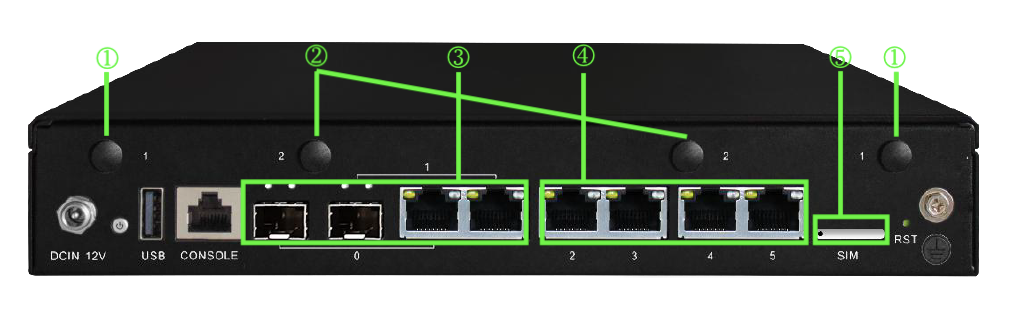
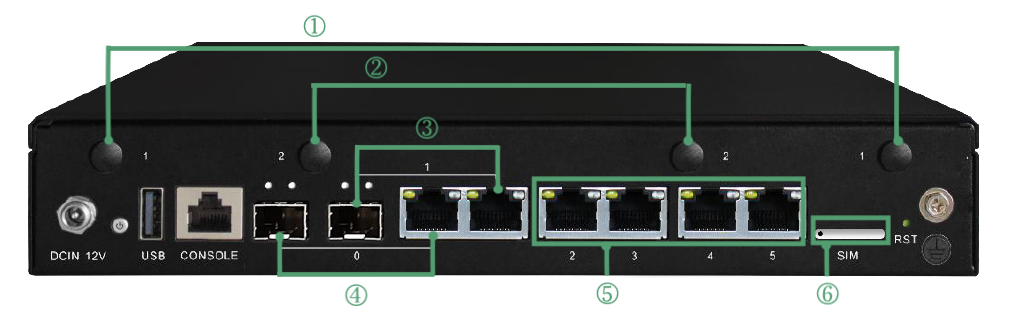
rtn:cpe images

Changed region(s): [[0.091, 0.0309, 0.8796, 0.9568]]

diff --git a/content/sd-wan/sdwan_new/open_access_point/lightbox/10_lightbox_overview.md b/content/sd-wan/sdwan_new/open_access_point/lightbox/10_lightbox_overview.md
@@ -22,17 +22,18 @@ weight: 10
 
 光盒 CPE 平面图如下所示。
 
-<img src="/sd-wan/sdwan_new/_images/cpe_all.png" style="zoom:50%;" />
+<img src="/sd-wan/sdwan_new/_images/cpe_all.png" style="zoom:70%;" />
 
 光盒 CPE 说明，如下表所示。
 
-| 编号 | 说明        |
-| ---- | ----------- |
-| ①    | WIFI 天线   |
-| ②    | 4G/5G 天线  |
-| ③    | 默认 WAN 口 |
-| ④    | 默认 LAN 口 |
-| ⑤    | SIM 卡      |
+| 编号 | 说明                                                         |
+| ---- | ------------------------------------------------------------ |
+| ①    | WIFI 天线                                                    |
+| ②    | 4G/5G 天线                                                   |
+| ③    | Combo1【光口（光纤） + 电口（网线）】，默认 WAN 口。若使用光纤口，则需要插入千兆光模块。 |
+| ④    | Combo0【光口（光纤） + 电口（网线）】，默认 WAN 口。若使用光纤口，则需要插入千兆光模块。 |
+| ⑤    | 默认 LAN 口                                                  |
+| ⑥    | SIM 卡                                                       |
 
 ## 使用流程
 
